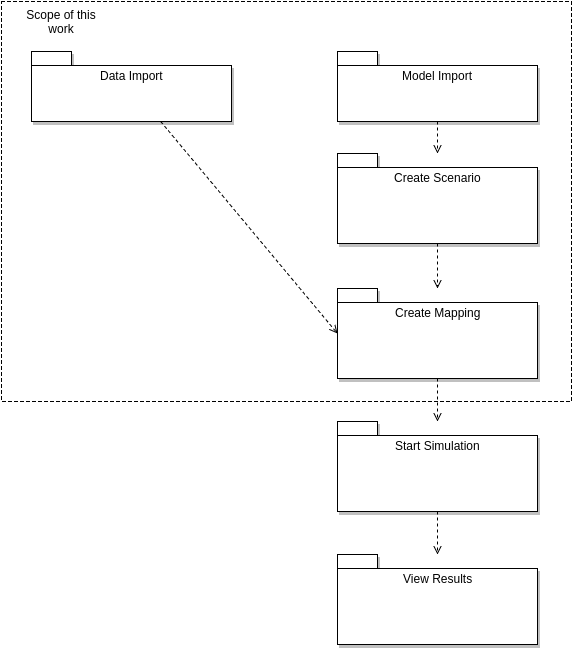
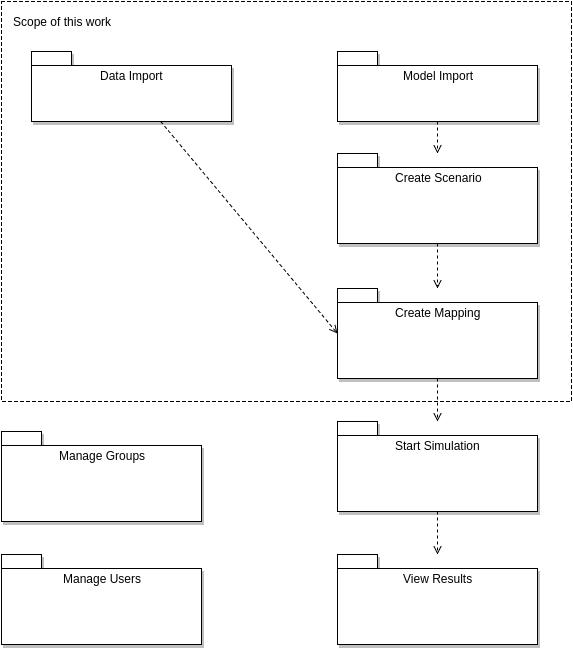
Progress on the Use-cases

diff --git a/chapters/chapter3.tex b/chapters/chapter3.tex
@@ -5,37 +5,38 @@ The Analysis shows use-cases for the system based on the stakeholders. A gap-ana
 
 
 \section{Stakeholders}
-Stakeholders are groups of people that have an interest in the system. This can be from a practical, or from a business standpoint. 
+Stakeholders are groups of people that have an interest in the system. This can be from a practical, or from a business standpoint.
 
 \subsection{Model Developer}
-The Model Developer is a technical user that creates a MARS model in cooperation with a domain expert.
+The Model Developer is a technical user that creates a MARS model in cooperation with a domain expert. His main goal, is to make sure the model executes correctly and without errors.
 
 \subsection{Simulation Creator}
-The Model Developer is an domain export. He Uses the Model, created by the Model Developer to answer a research question.
+The Model Developer is an domain export. He Uses the Model, created by the Model Developer to answer a research question. Model Developers goal is, to start various simulations with a given model to validate or invalidate theories.
 
-\subsection{Group Admin}
-The Group Admin is a user of the system with a leading roll in his group. He wants to manage people belonging to a particular group and handle group dependent settings.
+\subsection{Group Administrator}
+The Group Admin is a user of the system with a leading roll in his group. He wants to manage people belonging to a particular group and handle group dependent settings. He wants to add users to his group, remove them and handle permissions for data, owned by his group.
 
-\subsection{Admin}
-The Admin is a global acting user with far reaching permission inside the system.
+\subsection{Administrator}
+The Administrator is a global acting user with far reaching permission inside the system. An admin has to be able to alter any kind of data inside the system. Due to his wide range of capabilities, he has to be a trusted to act responsibly with the given responsibilities.
 
 
 \section{Use-cases}
-The interaction with the system requires 7 main use-cases. These cases are following the central workflow, while 2 extra use-cases are for management purposes. Figure \ref{fig:use-cases} shows an overview.\\
-This piece of work focuses on the highlighted area of the use-cases, which are described in the following paragraphs.
+The workflow that includes completing all the necessary steps to start a simulation can be broken down into five parts: \textit{Import Data}, \textit{Check imported Files}, \textit{Create Mapping}, \textit{Start Simulation} and \textit{View Results}.\\
+The additional Use-cases \textit{Manage Groups} and \textit{Manage Users} are for administrative purposes only. Figure \ref{fig:use-cases} shows an overview of the Use-cases with their stakeholders.\\
+This piece of work does not cover the whole workflow. Instead, it is focused on the highlighted area of the image. In the following chapters, only these parts will be covered.\\
+Although the Model Developer and the Simulation Creator have a different view of the Websuite, the Use-Cases do not differ. This is why they are simply referred as User.
 \begin{figure}[H]
-	\centering\includegraphics[width=1\textwidth]{res/Use-Cases}
+	\centering\includegraphics[width=1\textwidth]{res/Use-Cases_reduced}
 	\caption{Use-Cases in UML notation}
 	\label{fig:use-cases}
 \end{figure}
 
-\subsection{Import Data}
+\subsection{Import}
 \begin{usecase}
-	\addtitle{Name}{I: Import data}
-	\addfield{Summary}{Upload local files to the Websuite, to use them for a simulation.}
+	\addtitle{Import I}{Data}
+	\addfield{Summary}{Upload local data files to the Websuite, to use them for a simulation.}
 	\additemizedfield{Actors}{
-		\item Model Developer
-		\item Simulation Creator
+		\item User
 	}
 	\additemizedfield{Preconditions}{
 		\item Import data page is open.
@@ -44,17 +45,15 @@ This piece of work focuses on the highlighted area of the use-cases, which are d
 		\item The user drags one or multiple files onto the upload window, fills the form for every file and starts the import.
 	}
 	\additemizedfield{Alternative Scenario: }{
-		\item The user clicks the upload Window, fills the form for every file and starts the import.
+		\item The user clicks the upload button, fills the form for every file and starts the import.
 	}
 \end{usecase}
 
-\subsection{Import Model}
 \begin{usecase}
-	\addtitle{Name}{II: Import model}
+	\addtitle{Import II}{Model}
 	\addfield{Summary}{Upload local model files to the Websuite, to use them for a mapping.}
 	\additemizedfield{Actors}{
-		\item Model Developer
-		\item Simulation Creator
+		\item User
 	}
 	\additemizedfield{Preconditions}{
 		\item Import Model page is open.
@@ -67,33 +66,84 @@ This piece of work focuses on the highlighted area of the use-cases, which are d
 	}
 \end{usecase}
 
-\subsection{Check imported Data}
 \begin{usecase}
-	\addtitle{Name}{III: Check imported data}
-	\addfield{Summary}{Make sure all the imported files from data- and model-import were processed correctly}
+	\addtitle{Import III}{Bulk}
+	\addfield{Summary}{Upload multible files to the Websuite, with the same metadata, to speed up files that are handled alike.}
 	\additemizedfield{Actors}{
-		\item Model Developer
-		\item Simulation Creator
+		\item User
 	}
 	\additemizedfield{Preconditions}{
-		\item Data View page is open
-		\item Files have been imported
+		\item Import Model page is open.
 	}
 	\additemizedfield{Primary Scenario: }{
-		\item The User views imported files, filters them by category or text input, sorts them by certain fields and displays the detailed metadata for one entry, by clicking on it.
+		\item The user selects bulk upload, adds the files like for \textit{Import I} and fills one form to handle all the files.
 	}
 	\additemizedfield{Alternative Scenario: }{
 		\item none
 	}
 \end{usecase}
 
-\subsection{Create Scenario}
+\subsection{View}
 \begin{usecase}
-	\addtitle{Name}{IV: Create scenario}
-	\addfield{Summary}{Create a scenario based on a model and map the necessary fields.}
+	\addtitle{View I}{Search \& filter results}
+	\addfield{Summary}{Find specific input data with the help of a search and filter functionality.}
 	\additemizedfield{Actors}{
-		\item Model Developer
-		\item Simulation Creator
+		\item User
+	}
+	\additemizedfield{Preconditions}{
+		\item Data View page is open
+		\item Files have been imported
+	}
+	\additemizedfield{Primary Scenario: }{
+		\item The user views imported files, filters them by category and sorts them by name.
+	}
+	\additemizedfield{Alternative Scenario: }{
+		\item The user filters by text input and sorts them by category.
+	}
+\end{usecase}
+
+\begin{usecase}
+	\addtitle{View II}{Check processing result}
+	\addfield{Summary}{Make sure all the imported files from data- and modelimport were processed correctly.}
+	\additemizedfield{Actors}{
+		\item User
+	}
+	\additemizedfield{Preconditions}{
+		\item Data View page is open
+		\item Files have been imported
+	}
+	\additemizedfield{Primary Scenario: }{
+		\item The user checks the status of multible imported files by searching for them.
+	}
+	\additemizedfield{Alternative Scenario: }{
+		\item none
+	}
+\end{usecase}
+
+\begin{usecase}
+	\addtitle{View III}{View metadata}
+	\addfield{Summary}{View the metadata of a specific imported file.}
+	\additemizedfield{Actors}{
+		\item User
+	}
+	\additemizedfield{Preconditions}{
+		\item Data View page is open
+		\item Files have been imported
+	}
+	\additemizedfield{Primary Scenario: }{
+		\item The user clicks on a specific import entry and views the metadata inside a modal window.
+	}
+	\additemizedfield{Alternative Scenario: }{
+		\item none
+	}
+\end{usecase}
+
+\subsection{Scenario}
+\begin{usecase}
+	\addtitle{Scenario I}{Create scenario}
+	\addfield{Summary}{Create a scenario based on a model.}
+	\additemizedfield{Actors}{
+		\item User
 	}
 	\additemizedfield{Preconditions}{
 		\item Create Scenario page is open
@@ -107,13 +157,11 @@ This piece of work focuses on the highlighted area of the use-cases, which are d
 	}
 \end{usecase}
 
-\subsection{Create Mapping}
 \begin{usecase}
-	\addtitle{Name}{Create Mapping}
+	\addtitle{Scenario II}{Create Mapping}
 	\addfield{Summary}{Combine the fields from the uploaded model with uploaded data.}
 	\additemizedfield{Actors}{
-		\item Model Developer
-		\item Simulation Creator
+		\item User
 	}
 	\additemizedfield{Preconditions}{
 		\item Create Mapping page is open
@@ -121,7 +169,7 @@ This piece of work focuses on the highlighted area of the use-cases, which are d
 		\item Model has been imported
 	}
 	\additemizedfield{Primary Scenario: }{
-		\item The user selects a scenario and starts mapping the required fields to a dataset. He than sets the parameters for the simulation.
+		\item The user selects a scenario and starts mapping the required fields to a dataset. He then sets the parameters for the simulation.
 	}
 	\additemizedfield{Alternative Scenario: }{
 		\item none

diff --git a/chapters/chapter5.tex b/chapters/chapter5.tex
@@ -20,14 +20,14 @@
 
 \subsection{Scenario}
 \begin{figure}[H]
-	\centering\includegraphics[width=.75\textwidth]{res/Scenario}
+	\centering\includegraphics[width=.65\textwidth]{res/Scenario}
 	\caption{Scenario}
 	\label{fig:scenario}
 \end{figure}
 
 \subsection{Mapping}
 \begin{figure}[H]
-	\centering\includegraphics[width=.75\textwidth]{res/Mapping}
+	\centering\includegraphics[width=.65\textwidth]{res/Mapping}
 	\caption{Mapping}
 	\label{fig:mapping}
 \end{figure}

diff --git a/chapters/chapter4.tex b/chapters/chapter4.tex
@@ -7,7 +7,7 @@
 
 \section{Workflow}
 \begin{figure}[H]
-	\centering\includegraphics[width=.75\textwidth]{res/Dependency-workflow}
+	\centering\includegraphics[width=.7\textwidth]{res/Dependency-workflow}
 	\caption{Dependency workflow}
 	\label{fig:dependency-workflow}
 \end{figure}
